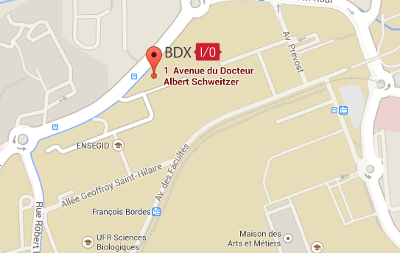
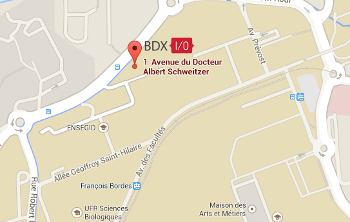
Resized venue image in order to avoid larger width than viewport size on mobile devices

diff --git a/app/styles/_styles.scss b/app/styles/_styles.scss
@@ -20,7 +20,7 @@
 .venue {
   @include responsive-image(
     'ENSEIRB - Venue.png', 344px, 543px,
-    'ENSEIRB - Venue-mobile.png', 253px, 400px
+    'ENSEIRB - Venue-mobile.png', 222px, 350px
   );
 }
 
